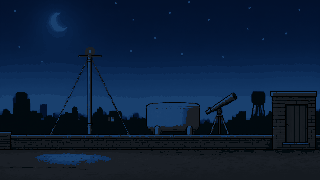
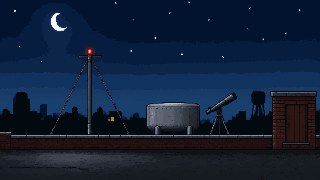
house-outer-rooms: the wintergarden grows to two screens up, and the rooms end properly
The wintergarden is now 320 x 360, one screen across and two up, so the spiral
stair climbs the whole height of the room and the rose at the top is out of
reach from the floor: the player has to climb it to see the rose, and the
camera rises with them. The shower block now ends at a wall past the lockers,
and the rooftop's far end is closed off by a wall, so neither looks as though
it is cut off mid-room.

diff --git a/docs/design/lobby/house.py b/docs/design/lobby/house.py
@@ -26,7 +26,7 @@ BB2_X = BASE_X
 LBAND = BBAND + OH + 44
 SHOWER_X = 0      # the shower block: out the loft's shower door
 WINTER_X = 340    # the wintergarden: out the loft's wintergarden door
-WH = 320          # the wintergarden is a tall room: a spiral stair up to the rose
+WH = 360          # the wintergarden is a tall room: two screens up, a spiral stair to the rose
 
 W = max(BAYX + 993, ROOF_X + OW, WINTER_X + OW) + M
 VH = LBAND + WH + 40
@@ -211,6 +211,8 @@ orect(190, 15, 258, 56, "key", R); olabel(190, 258, 44, "TELESCOPE", "replays", 
 orect(120, 15, 178, 62, "st2", R); olabel(120, 178, 50, "WATER TANK", None, R)
 orect(60, 15, 110, 58, "st2", R); olabel(60, 110, 46, "AERIAL", None, R)
 orect(0, 15, 52, 60, "st2", R); olabel(0, 52, 48, "PARAPET", "the street", R)
+# the far end: the roof ends at a parapet, so there is nothing more to walk on
+orect(0, 60, 52, OH, "wall", R)
 
 # ---- the loft's own rooms, entered from the loft: its shower block and its wintergarden ----
 out.append(f'<text x="{M}" y="{LBAND - 12:g}" class="h">THE LOFT\'S OWN ROOMS · the loft is the way in</text>')
@@ -225,7 +227,9 @@ orect(30, 15, 92, 56, "st2", S, SY); olabel(30, 92, 44, "SINKS", "the mirror", S
 orect(98, 15, 150, 74, "st", S, SY); olabel(98, 150, 56, "SHOWER", "the cubicle", S, SY)
 orect(156, 15, 208, 74, "st", S, SY); olabel(156, 208, 56, "SHOWER", "the cubicle", S, SY)
 orect(214, 15, 266, 70, "st2", S, SY); olabel(214, 266, 52, "TOILET", "the cubicle", S, SY)
-orect(272, 15, 320, 46, "st2", S, SY); olabel(272, 320, 36, "LOCKERS", None, S, SY)
+orect(272, 15, 308, 46, "st2", S, SY); olabel(272, 308, 36, "LOCKERS", None, S, SY)
+# the end wall: the room stops here, so the lockers don't look cut off
+orect(308, 0, 320, OH, "wall", S, SY)
 # the swinging saloon doors: a stall across the front of each cubicle, with a pivot at each end
 for cx in (124, 182, 240):
     out.append(f'<path d="M{cx - 26:g} {SY(64):g} L{cx - 26:g} {SY(30):g} M{cx + 26:g} {SY(64):g} L{cx + 26:g} {SY(30):g}" class="saloon"/>')
@@ -233,10 +237,11 @@ for cx in (124, 182, 240):
     out.append(f'<circle cx="{cx + 26:g}" cy="{SY(64):g}" r="1.6" class="saloondot"/>')
     out.append(f'<path d="M{cx - 26:g} {SY(64):g} L{cx + 26:g} {SY(64):g}" class="saloon"/>')
 
-# the wintergarden: out the loft's wintergarden door. A tall room: a spiral stair up to the rose
+# the wintergarden: out the loft's wintergarden door. A tall room, two screens up:
+# a spiral stair turns up the wall to the rose at the top, and you have to climb to see it
 Wn = WINTER_X
 orect(0, 0, OW, WH, "winter", Wn, LY)
-otitle(Wn, "THE WINTERGARDEN · one tall room, 320 × 320", "out the loft's wintergarden door", LY, 306)
+otitle(Wn, "THE WINTERGARDEN · one tall room, 320 × 360", "out the loft's wintergarden door", LY, 346)
 ofloor(0, OW, 15, Wn, LY)
 orect(0, 15, 24, 52, "door", Wn, LY); olabel(0, 24, 40, "←", "loft", Wn, LY)
 orect(30, 15, 106, 60, "st", Wn, LY); olabel(30, 106, 48, "ROSES", "the beds", Wn, LY)
@@ -244,20 +249,21 @@ orect(112, 15, 168, 58, "st2", Wn, LY); olabel(112, 168, 46, "PLANTERS", None, W
 orect(242, 15, 320, 64, "st2", Wn, LY); olabel(242, 320, 50, "GREENHOUSE", "the cold", Wn, LY)
 # the spiral stair, turning up the wall to the rose at the top: a post, and treads winding round it
 sx = 205
-for i in range(10):
-    t = i / 9.0
+for i in range(13):
+    t = i / 12.0
     rx = 26 - 8 * t                       # the stair tightens as it rises
     out.append(f'<ellipse cx="{Wn + sx:g}" cy="{LY(26 + i * 26):g}" rx="{rx:g}" ry="{rx * 0.32:g}" class="spiral"/>')
     out.append(f'<line x1="{Wn + sx - rx:g}" y1="{LY(26 + i * 26):g}" x2="{Wn + sx + rx:g}" y2="{LY(26 + i * 26):g}" class="spiral"/>')
-out.append(f'<line x1="{Wn + sx:g}" y1="{LY(15):g}" x2="{Wn + sx:g}" y2="{LY(286):g}" class="spiralpost"/>')
+out.append(f'<line x1="{Wn + sx:g}" y1="{LY(15):g}" x2="{Wn + sx:g}" y2="{LY(326):g}" class="spiralpost"/>')
 for rx, ry in ((46, 30), (64, 26), (84, 31), (130, 28), (150, 32)):
     out.append(f'<circle cx="{Wn + rx:g}" cy="{LY(ry):g}" r="2.4" class="rose"/>')
-# the rose at the top, under its glass dome
-out.append(f'<circle cx="{Wn + 205:g}" cy="{LY(282):g}" r="7" class="rose"/>')
-out.append(f'<circle cx="{Wn + 205:g}" cy="{LY(282):g}" r="11" class="dome"/>')
-out.append(f'<text x="{Wn + 232:g}" y="{LY(284):g}" class="t" text-anchor="start">THE ROSE</text>')
-out.append(f'<text x="{Wn + 232:g}" y="{LY(276):g}" class="s" text-anchor="start">under glass, at the top</text>')
-out.append(f'<line x1="{Wn + 174:g}" y1="{LY(15):g}" x2="{Wn + 236:g}" y2="{LY(15):g}" class="fl"/>')
+# the rose at the top, under its glass dome, up where only the stair reaches
+out.append(f'<circle cx="{Wn + 205:g}" cy="{LY(322):g}" r="7" class="rose"/>')
+out.append(f'<circle cx="{Wn + 205:g}" cy="{LY(322):g}" r="11" class="dome"/>')
+out.append(f'<text x="{Wn + 232:g}" y="{LY(324):g}" class="t" text-anchor="start">THE ROSE</text>')
+out.append(f'<text x="{Wn + 232:g}" y="{LY(316):g}" class="s" text-anchor="start">under glass, at the top</text>')
+# the landing the stair arrives at
+out.append(f'<line x1="{Wn + 174:g}" y1="{LY(300):g}" x2="{Wn + 236:g}" y2="{LY(300):g}" class="fl"/>')
 
 # ---- the ways in, matched by number: the badge on the door in the house, and the badge on the door in the room
 out.append(f'<text x="{BB2_X}" y="{BBAND - 12:g}" class="h">B2 · below the basement</text>')
@@ -298,6 +304,7 @@ svg = f'''<svg xmlns="http://www.w3.org/2000/svg" viewBox="{-M} 0 {W + M} {VH}" 
 .key{{fill:#ffe9a8;stroke:#3a2c26}} .st{{fill:#fff6e6;stroke:#3a2c26}} .st2{{fill:#f7f1e8;stroke:#8a7a70}}
 .tarp{{fill:#c9ccc4;stroke:#3a2c26;stroke-dasharray:3 2}} .nyet{{fill:#f3d2c8;stroke:#a05040;stroke-dasharray:2 2}}
 .door{{fill:#a9b8d0;stroke:#2b3a58}} .lift{{fill:#e8c84a;stroke:#3a2c26}} .space{{fill:#eef4ef;stroke:#7a9080;stroke-dasharray:3 2}}
+.wall{{fill:#5a4a42;stroke:#3a2c26}}
 .bunks{{fill:#e3cfae;stroke:#3a2c26}} .roof{{fill:none;stroke:#3a2c26;stroke-width:1.5}}
 .fl{{stroke:#3a2c26;stroke-width:2}} .lad{{stroke:#6a4424;stroke-width:1}} .drone{{fill:#586078;stroke:#1c1420}}
 .kitchen{{fill:#f2e0c4;stroke:#3a2c26}} .yard{{fill:#dfe6c8;stroke:#3a2c26}} .base{{fill:#d8cfc4;stroke:#3a2c26}}

diff --git a/docs/design/lobby/plates/README.md b/docs/design/lobby/plates/README.md
@@ -1,34 +1,51 @@
 # The room plates (work in progress)
 
 Painted plates for the house's outer rooms, each its own screen behind a door
-([the design](../../lobby.md#the-outer-rooms), [the map](house-layout.svg)).
+([the design](../../lobby.md#the-outer-rooms), [the map](../house-layout.svg)).
 
 **These are work in progress, for looking at and choosing between.** They're not
 in the game yet: the game loads its paintings from `Assets/Resources/Den/` as
-`.bytes`, and nothing here has been cut to game pixels or put there.
+`.bytes`, and nothing here has been put there.
 
 Each room is one screen, 320 × 180 in the game's art pixels, except the
 wintergarden, which is a tall room at 320 × 320.
 
-| Room | Reached from | Plate |
-|---|---|---|
-| The kitchen | the den's side door | `wip-kitchen.png` |
-| The back yard | the kitchen's back door | |
-| B1, the basement | down the trapdoor in front of the couch | |
-| B2, the bunker | down through the hole in B1's floor | |
-| The rooftop | the loft's far-left door | |
-| The shower block | the loft's shower door | |
-| The wintergarden | the loft's wintergarden door | |
+| Room | Reached from | Plate | At game size |
+|---|---|---|---|
+| The kitchen | the den's side door | `wip-kitchen.png` | `game-kitchen.png` |
+| The back yard | the kitchen's back door | `wip-yard.png` | `game-yard.png` |
+| B1, the basement | down the trapdoor in front of the couch | `wip-basement.png` | `game-basement.png` |
+| B2, the bunker | down through the hole in B1's floor | | |
+| The rooftop | the loft's far-left door | `wip-rooftop.png` | `game-rooftop.png` |
+| The shower block | the loft's shower door | `wip-shower.png` | `game-shower.png` |
+| The wintergarden | the loft's wintergarden door | `wip-winter.png` | `game-winter.png` |
+
+[Open the page that shows them all](index.html).
+
+`wip-*.png` is the painting as the model made it, at 1280 × 720 (the wintergarden
+at 1024 × 1024). `game-*.png` is the same painting cut down to the game's size
+and 64 colours: that's the one the game would load.
+
+`wip-kitchen.png`, `wip-kitchen-artmd.png` and `wip-kitchen-arcade.png` are three
+takes of the kitchen, kept so the difference the references make can be seen:
+the first two were made from the prompt alone and came out photoreal, and only
+the one with the references came out as pixel art.
 
 ## How they're made
 
 With OpenRouter's Qwen Image 2.1 Turbo (`qwen/qwen-image-2.1-turbo`, the
-Alibaba endpoint), with the game's own paintings as image references so the
-style stays in: `den.bytes` and `loft.bytes` are the references, and the
-`street.bytes` one for the rooms that look outdoors.
+Alibaba endpoint). Two image references:
+
+1. **The room's layout**, cut out of [the house map](../house-layout.svg) and
+   rendered as a picture. The model then puts the things where the map says.
+2. **A swatch** of the game's own pixels, upscaled so the pixel technique is
+   legible, with nothing recognisable in it. That is what makes the plate pixel
+   art rather than a photograph.
 
 The style line is in front of every prompt, from [the art design](../../art.md):
 
 > Pixel art in the style of 1990s Neo Geo arcade run-and-gun games like Metal Slug: hand-placed pixels, bold dark outlines, rich three- or four-tone shading, chunky readable shapes. Crisp hard pixel edges, no anti-aliasing, no blur, no text.
 
-Then the plate's own prompt, saying what the layer shows and nothing else.
+Then the layout hint, then the plate's own prompt, saying what the room shows
+and nothing else. The provider's moderation blocks some ways of putting these
+together, so the exact wording matters: [the notes](../../art.md#the-houses-room-plates).

diff --git a/docs/design/lobby.md b/docs/design/lobby.md
@@ -56,8 +56,8 @@ Concept: `concepts/lobby/den-lobby.png` in the project's files (second pass; the
 - **The basement** is down a **trapdoor in the floor**, on the ground floor's right end. It's **two levels**:
   - **B1 is a gaming den**: a big room with the PCs set up along the wall (a LAN), the arcade, and a sofa. The far end is **the hole**, dug through the floor later in the game.
   - **B2 is the bunker**, below: reached down through that hole, with the supplies in crates and a door that stays shut. The earth round it isn't dug out yet.
-- **The rooftop** is out the **loft's far-left door**: the telescope (which replays the missions), the water tank, the aerial, and the parapet over the street.
-- **The loft's own rooms are the loft's way in:** the **shower block** is out the loft's shower door, with sinks and a mirror along one wall and shower and toilet cubicles behind **swinging saloon doors**; the **wintergarden** is out the loft's wintergarden door, and it's a **tall room** (320 × 320) with a **spiral staircase** turning up the wall to **the rose** at the top, under its glass dome.
+- **The rooftop** is out the **loft's far-left door**: the telescope (which replays the missions), the water tank, the aerial, and the parapet over the street. The roof **ends at a wall**: the far side of the deck is closed off, so it never looks as though there is more roof to walk on.
+- **The loft's own rooms are the loft's way in:** the **shower block** is out the loft's shower door, with sinks and a mirror along one wall and shower and toilet cubicles behind **swinging saloon doors**; the room **ends at a wall** past the lockers, so they look against a wall rather than cut off. The **wintergarden** is out the loft's wintergarden door, and it's a **tall room** (320 × 360: one screen across, two up) with a **spiral staircase** turning up the wall to **the rose** at the top, under its glass dome. The rose is out of reach from the floor: **you have to climb the stair to see it**, and the camera rises with you.
 - **The mission board moves up to kcaj** (owner, 2026-10-21): **the board *is* the string board**, so it hangs in his nook on the den's upper floor, and the ground floor keeps only a nail where it used to be.
 
 **Not in the game yet:** all of this is the design. The art comes next (painted with OpenRouter's Qwen Image Turbo, with the existing paintings as image references to keep the style in), and then the build, one card per room.
